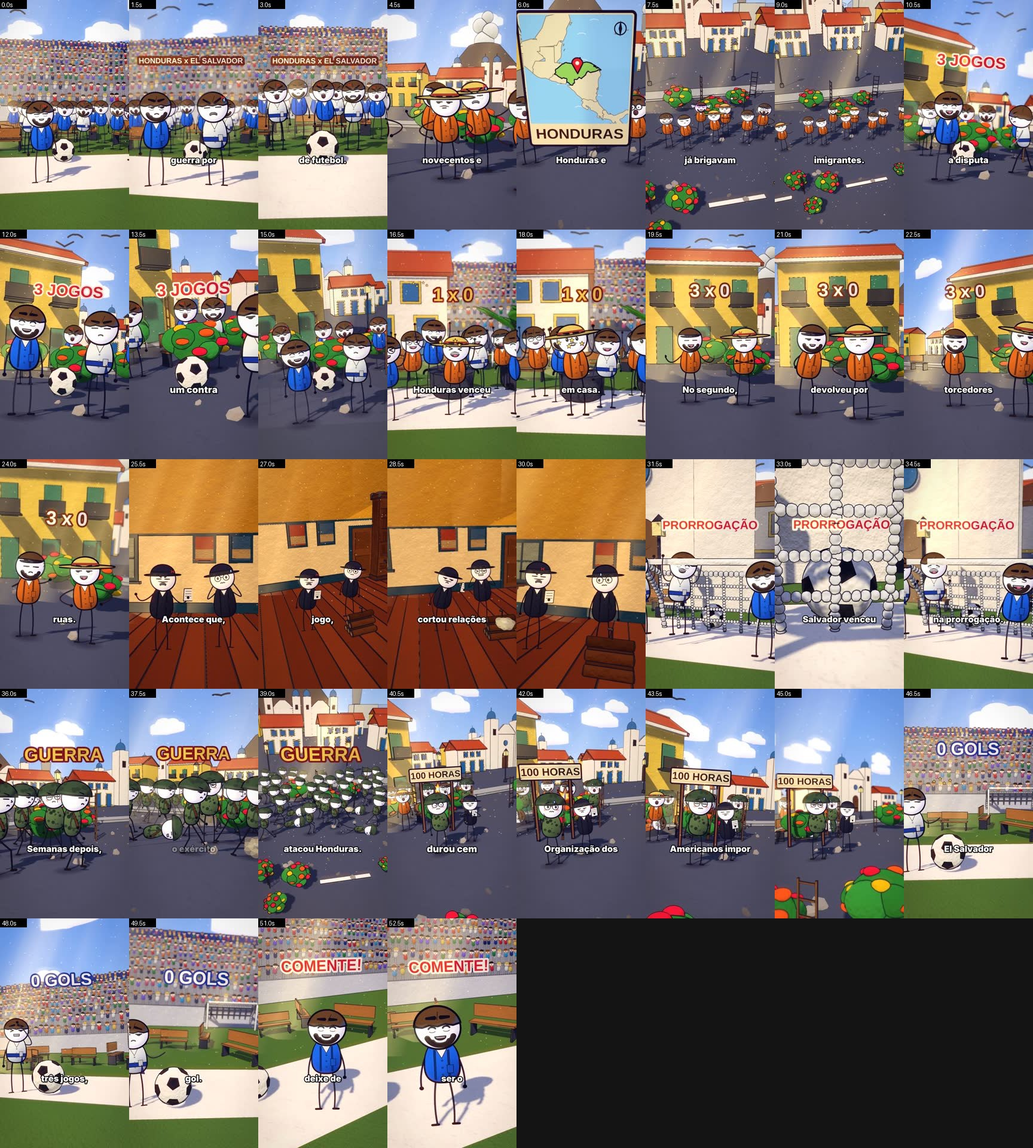
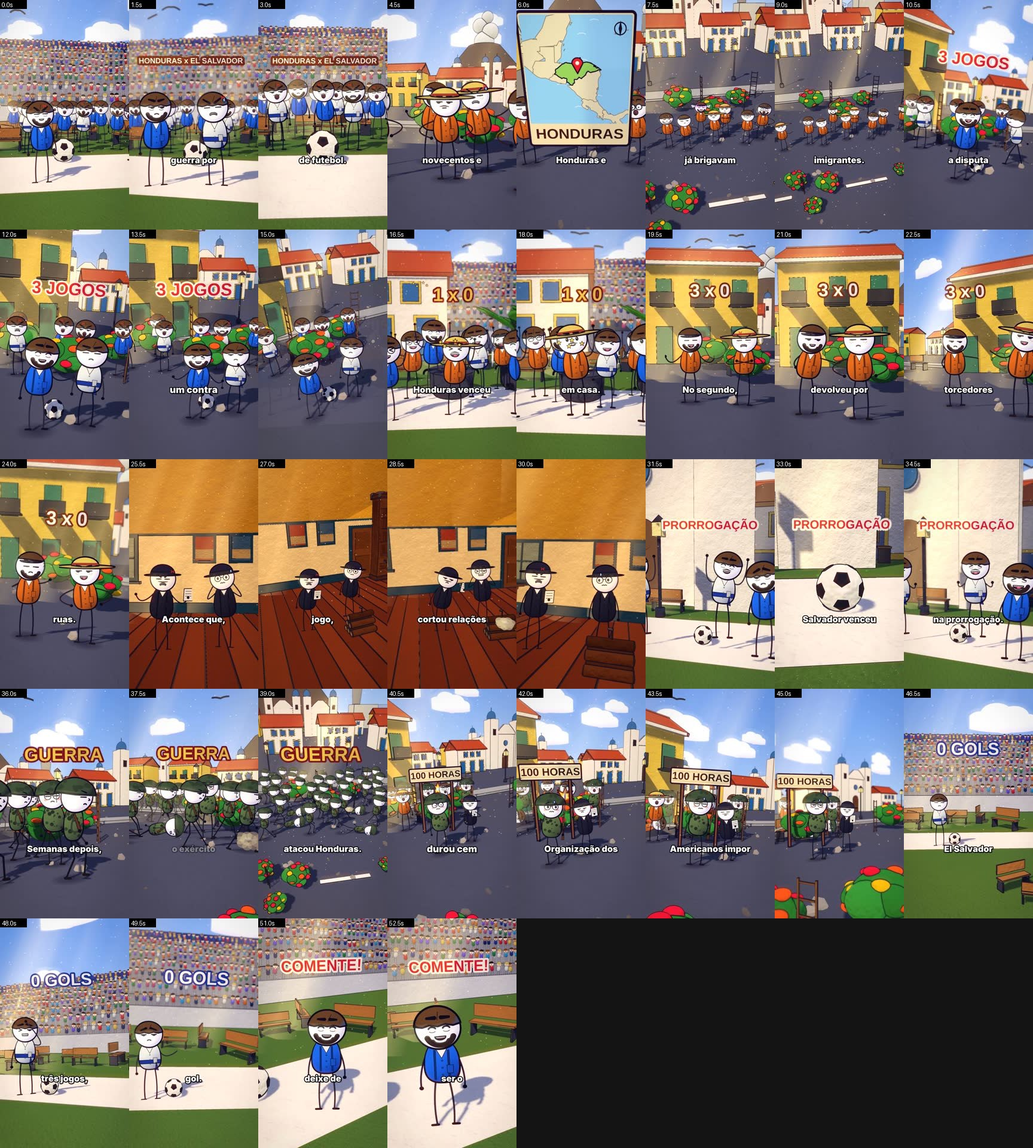
futebol1969: b6 sem bola; zanzibar1896 render
Claude-Session: https://claude.ai/code/session_01HE8Dy2wiQov2uhW6ZYikBX

diff --git a/entregas/futebol1969/folha2_producao.md b/entregas/futebol1969/folha2_producao.md
@@ -48,8 +48,8 @@ Coordenadas de cada cena para modelagem, animacao e camera, com os RISCOS que o 
 
 ## Cena b2 - Aí veio a disputa por uma vaga na Copa do Mundo: três jogos, um contra...
 - Cenario: street | luz: day | clima: limpo
-- Camera: two = plano medio nos dois; camera empurra devagar e muda de angulo a cada ~2 s + CLOSE NO OBJETO no meio da cena (vai e volta)
-- Takes: 3 take(s) de ~1,8 s, deslizando de um para o outro: esquerda alta, aberto -> direita baixa -> frente | no meio: desliza ate o objeto (close), segura ~1,5 s e volta
+- Camera: two = plano medio nos dois; camera empurra devagar e muda de angulo a cada ~2 s
+- Takes: 3 take(s) de ~1,8 s, deslizando de um para o outro: esquerda alta, aberto -> direita baixa -> frente
 - Personagens principais (2): HON (variante 0, expressao grin); SAL (variante 0, expressao stern) | multidao: 6 de HON/SAL
 - Animacao: conversar | interacao: avanca e o outro recua | o ultimo personagem ENTRA andando
 - Objetos/modelos: kit/ball
@@ -59,9 +59,9 @@ Coordenadas de cada cena para modelagem, animacao e camera, com os RISCOS que o 
 
 ### FICHA TECNICA DA CENA (lugar, camera, personagens, objetos, efeitos, texto)
 - LOCAL: rua de cidade (predios dos dois lados); hora: day
-- CAMERA: plano medio, 2 personagens de corpo inteiro; plano medio enquadrando personagens e ball juntos (camera a 11.5 m)
+- CAMERA: plano medio, 2 personagens de corpo inteiro
 - PERSONAGENS: HON na esquerda, expressao grin; SAL na direita, expressao stern; multidao de 6 (HON, SAL) ATRAS dos principais; acao: fala/gesto
-- OBJETO kit/ball: MEIO, centro (objeto principal da cena); tamanho na tela: 32% da altura da tela; estado: PARADO; 1.1 m: entre e um pouco atras dos personagens, mesmo plano, tamanho de uma pessoa
+- OBJETO kit/ball: FRENTE, centro (objeto principal da cena); tamanho na tela: 15% da altura da tela; estado: PARADO; objeto pequeno ampliado para 1.1 m (le de longe): NA FRENTE, entre os personagens, sem tapar rosto
 - TEXTO NA TELA: "3 JOGOS" flutuando no alto, na palavra 1 da frase
 - TAKES: 2 takes (troca de angulo a cada ~2.1 s, sem corte seco):
   - take 1 (9.9-11.9 s): gira 14 graus para a esquerda, camera mais alta, olhando um pouco de cima, um pouco mais longe
@@ -145,17 +145,16 @@ Coordenadas de cada cena para modelagem, animacao e camera, com os RISCOS que o 
 - Takes: 3 take(s) de ~1,8 s, deslizando de um para o outro: esquerda alta, aberto -> direita baixa -> frente | no meio: desliza ate o objeto (close), segura ~1,5 s e volta
 - Personagens principais (3): SAL (variante 0, expressao laugh); SAL (variante 1, expressao grin); HON (variante 0, expressao sad)
 - Animacao: comemorar | interacao: pular
-- Objetos/modelos: kit/ball, kit/trave, buildings/apartment, buildings/house_two, nature/lamppost
+- Objetos/modelos: kit/ball, buildings/apartment, buildings/house_two, nature/lamppost
 - CONFERIR NA FOLHA DE CONTATO (o que a narracao cita tem que aparecer): cidade, dois, jogo, mexico, prorrogacao
 - RISCOS: nenhum
 <!-- FICHA -->
 
 ### FICHA TECNICA DA CENA (lugar, camera, personagens, objetos, efeitos, texto)
 - LOCAL: estadio; hora: dia
-- CAMERA: plano de grupo (3+ pessoas); plano medio enquadrando personagens e ball juntos (camera a 11.5 m)
+- CAMERA: plano de grupo (3+ pessoas)
 - PERSONAGENS: SAL na esquerda, expressao laugh; SAL no centro, expressao grin; HON na direita, expressao sad; sem multidao; acao: comemorar
-- OBJETO kit/ball: MEIO, centro (objeto principal da cena); tamanho na tela: 32% da altura da tela; estado: PARADO; 1.1 m: entre e um pouco atras dos personagens, mesmo plano, tamanho de uma pessoa
-- OBJETO kit/trave: FUNDO, direita; tamanho na tela: 18% da altura da tela; estado: PARADO; 3.3 m de altura x 5.8 m: ATRAS dos personagens, de lado, ocupando a largura do quadro (a ponta pode sair da tela); personagens na frente, menores
+- OBJETO kit/ball: FRENTE, centro (objeto principal da cena); tamanho na tela: 15% da altura da tela; estado: PARADO; objeto pequeno ampliado para 1.1 m (le de longe): NA FRENTE, entre os personagens, sem tapar rosto
 - TEXTO NA TELA: "PRORROGAÇÃO" flutuando no alto, na palavra 1 da frase
 - TAKES: 2 takes (troca de angulo a cada ~2.1 s, sem corte seco):
   - take 1 (30.2-32.3 s): gira 12 graus para a direita, camera mais baixa, olhando um pouco de baixo
@@ -210,17 +209,16 @@ Coordenadas de cada cena para modelagem, animacao e camera, com os RISCOS que o 
 - Takes: 2 take(s) de ~1,8 s, deslizando de um para o outro: esquerda alta, aberto -> direita baixa
 - Personagens principais (1): SAL (variante 0, expressao sad)
 - Animacao: conversar
-- Objetos/modelos: kit/ball, kit/trave
+- Objetos/modelos: kit/ball
 - CONFERIR NA FOLHA DE CONTATO (o que a narracao cita tem que aparecer): copa, tres
 - RISCOS: nenhum
 <!-- FICHA -->
 
 ### FICHA TECNICA DA CENA (lugar, camera, personagens, objetos, efeitos, texto)
 - LOCAL: estadio; hora: day
-- CAMERA: plano medio, 2 personagens de corpo inteiro; plano medio enquadrando personagens e ball juntos (camera a 8.0 m)
+- CAMERA: plano medio, 2 personagens de corpo inteiro
 - PERSONAGENS: SAL no centro, expressao sad; sem multidao; acao: fala/gesto
-- OBJETO kit/ball: MEIO, direita (objeto principal da cena); tamanho na tela: 32% da altura da tela; estado: PARADO; 1.3 m: ao lado do personagem, mesmo plano, tamanho de uma pessoa
-- OBJETO kit/trave: FUNDO, direita; tamanho na tela: 18% da altura da tela; estado: PARADO; 3.3 m de altura x 5.8 m: ATRAS dos personagens, de lado, ocupando a largura do quadro (a ponta pode sair da tela); personagens na frente, menores
+- OBJETO kit/ball: FRENTE, centro (objeto principal da cena); tamanho na tela: 15% da altura da tela; estado: PARADO; objeto pequeno ampliado para 1.1 m (le de longe): NA FRENTE, entre os personagens, sem tapar rosto
 - TEXTO NA TELA: "0 GOLS" flutuando no alto, na palavra 1 da frase
 - TAKES: 2 takes (troca de angulo a cada ~1.8 s, sem corte seco):
   - take 1 (45.6-47.4 s): mesmo angulo
@@ -248,14 +246,13 @@ kit/panela | b3 | pronto | conferir na folha de contato se le bem; se parecer ca
 buildings/house_small | b3 | pronto | conferir na folha de contato se le bem; se parecer caixote, refazer com formas.py
 nature/picket_fence | b3 | pronto | conferir na folha de contato se le bem; se parecer caixote, refazer com formas.py
 nature/tree_oak | b3 | pronto | conferir na folha de contato se le bem; se parecer caixote, refazer com formas.py
-kit/trave | b6, b9 | pronto | conferir na folha de contato se le bem; se parecer caixote, refazer com formas.py
 buildings/apartment | b6 | pronto | conferir na folha de contato se le bem; se parecer caixote, refazer com formas.py
 buildings/house_two | b6 | pronto | conferir na folha de contato se le bem; se parecer caixote, refazer com formas.py
 nature/lamppost | b6 | pronto | conferir na folha de contato se le bem; se parecer caixote, refazer com formas.py
 
 
 ## Video inteiro
-- Objeto heroi: kit/ball | grandes momentos: b7, b8 | planos abertos: 3 | mistura: close 10% | medio 67% | aberto 16% | detalhe 7%
+- Objeto heroi: kit/ball | grandes momentos: b7, b8 | planos abertos: 3 | mistura: close 10% | medio 70% | aberto 16% | detalhe 5%
 - Interacoes: b0 aproxima-se, b2 avanca e o outro recua, b4 empurrar, b5 susto, b6 pular, b8 o outro se aproxima
 - RISCOS GERAIS: nenhum
 

diff --git a/ferramenta-shorts/stories/zanzibar1896/cronograma.md b/ferramenta-shorts/stories/zanzibar1896/cronograma.md
@@ -1,6 +1,6 @@
 # CRONOGRAMA - Guerras Inusitadas EP 08 - A Guerra de 38 Minutos
 
-Gerado em 24/11 20:55 | 12 cenas | metricas: acoes_encenadas 100%, acoes_chave_com_efeito 100%, explicacoes_cobertas 100%, cenario_e_epoca_ok 100%
+Gerado em 24/11 20:59 | 12 cenas | metricas: acoes_encenadas 100%, acoes_chave_com_efeito 100%, explicacoes_cobertas 100%, cenario_e_epoca_ok 100%
 
 ## 1. Plano de cenas (o que cada frase vai mostrar)
 
@@ -31,12 +31,12 @@ N | Etapa | O que confere | Estado | Proximo passo
 6 | Estilo e enquadramento | autoajuste de luz/cor e ajuste de camera de cada tomada | FEITO | 
 7 | Gates | camera OK, todas as tomadas OK, estilo OK | FEITO | 
 8 | Storyboard e grade de acoes | video inteiro em quadros + 1 quadro no instante de cada acao | FEITO | 
-9 | Revisao escrita e aprovacao | uma linha por frase conferindo com a folha 3 e com o quadro da pesquisa | PENDENTE | ./aprovar_storyboard.sh zanzibar1896
-10 | Render | todos os quadros renderizados nesta versao das folhas | BLOQUEADO (etapa anterior pendente) | 
+9 | Revisao escrita e aprovacao | uma linha por frase conferindo com a folha 3 e com o quadro da pesquisa | FEITO | 
+10 | Render | todos os quadros renderizados nesta versao das folhas | PENDENTE | 
 11 | Montagem e som | trechos + voz + musica + efeitos; volume normalizado | BLOQUEADO (etapa anterior pendente) | 
 12 | Conferencia | conferir.sh sem falha e folha de contato olhada | BLOQUEADO (etapa anterior pendente) | ./conferir.sh zanzibar1896
 13 | Auditoria das acoes | 1 quadro do mp4 em cada palavra de acao | BLOQUEADO (etapa anterior pendente) | bash auditar_acoes.sh local zanzibar1896 <mp4>
 14 | Entrega | mp4 original 1080x1920 enviado; commit e push | BLOQUEADO (etapa anterior pendente) | 
 
-**Etapa atual:** 9. Revisao escrita e aprovacao
+**Etapa atual:** 10. Render
 
